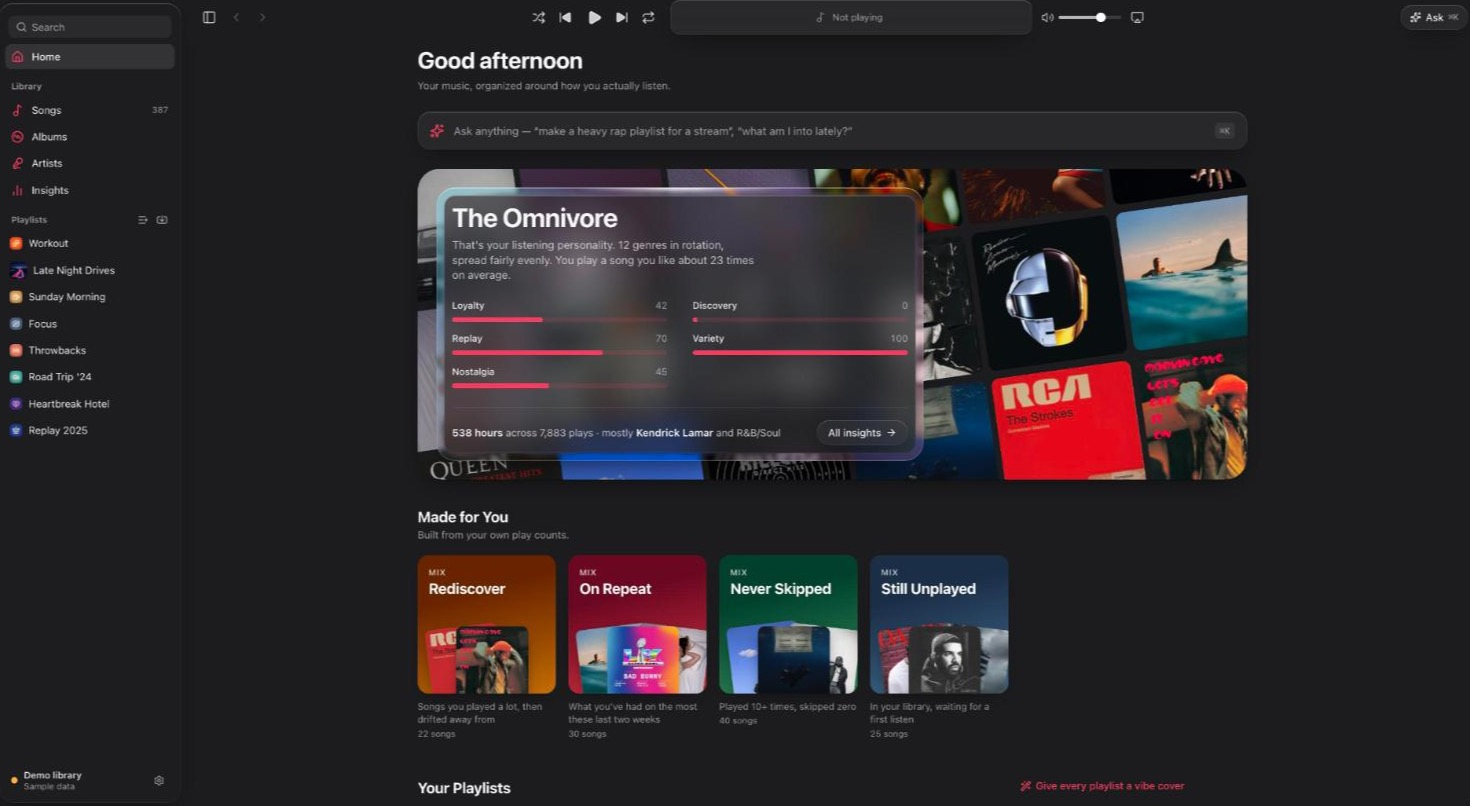
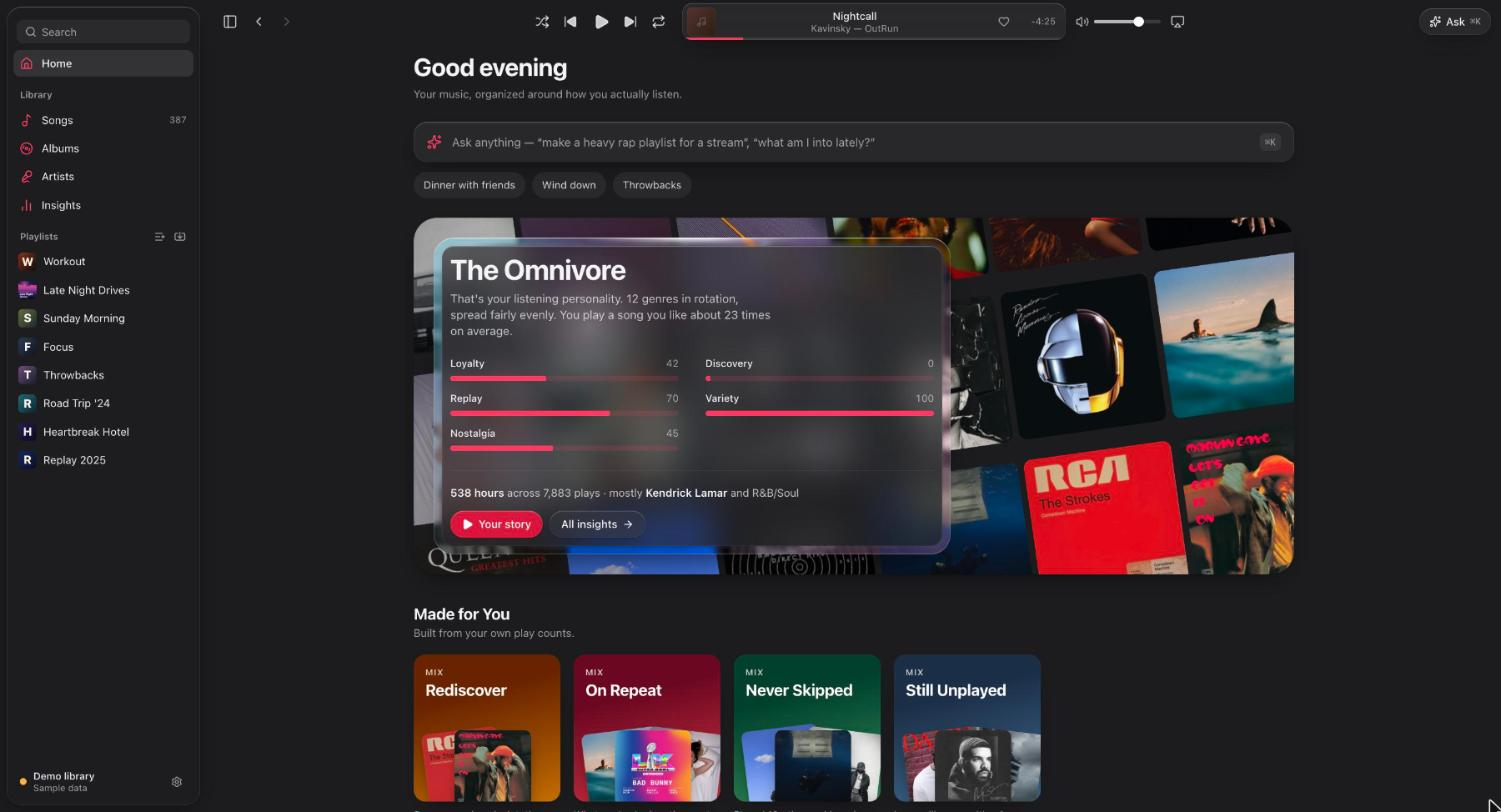
README: Now Playing, listening story, energy flow, cover styles; new screenshots

diff --git a/README.md b/README.md
@@ -5,25 +5,36 @@ songs from your library *and* all of Apple Music, give every playlist a cover th
 actually listen, and control playback from the menu bar.
 
 <p align="center">
-  <img src="assets/home.jpg" alt="Home: your listening personality, Made for You mixes and playlists" width="900">
+  <img src="assets/home.jpg" alt="Home: ideas for right now, your listening personality, Made for You mixes" width="900">
 </p>
 
 <table>
   <tr>
     <td width="40%"><img src="assets/assistant.jpg" alt="The assistant drafting a playlist from your library plus new Apple Music songs"></td>
-    <td width="40%"><img src="assets/playlist.jpg" alt="A playlist page tinted by its cover"></td>
+    <td width="40%"><img src="assets/playlist.jpg" alt="A playlist page with its energy flow, one-tap ideas and a Type cover"></td>
     <td width="20%"><img src="assets/menubar.png" alt="The menu bar popover: now playing, Ask, playlists"></td>
   </tr>
   <tr>
     <td>Ask for a playlist: your songs plus new ones</td>
-    <td>Every playlist, tinted by its cover</td>
+    <td>Every playlist's energy, song by song</td>
     <td>The menu bar, from any app</td>
+  </tr>
+  <tr>
+    <td width="40%"><img src="assets/now-playing.jpg" alt="Now Playing: big artwork over its colors, controls, more by the artist and songs like this"></td>
+    <td width="40%" colspan="2"><img src="assets/story.jpg" alt="Your listening story: a top songs card" width="260"></td>
+  </tr>
+  <tr>
+    <td>Now Playing, with songs like this from Apple Music</td>
+    <td colspan="2">Your listening story</td>
   </tr>
 </table>
 
 ## Download
 
 **[Get the latest version →](https://github.com/kxnerx/apple-music-toolbox-releases/releases)**
+
+**Newest test build: [0.1.1-test.2](https://github.com/kxnerx/apple-music-toolbox-releases/releases/tag/v0.1.1-test.2)**:
+Now Playing, your listening story, energy flow on playlists, cover styles and a new app icon.
 
 You need an **Apple Silicon Mac** (M1 or newer) and the Music app. An Apple Music subscription lets the assistant
 suggest new songs, and your own [OpenRouter key](https://openrouter.ai/settings/keys) (a few cents of credit goes a
@@ -52,10 +63,12 @@ long way) turns on the assistant, recommendations and AI covers.
 | **New music** | Playlists mix your library with new songs from Apple Music. New songs wait on the playlist: click **Add all in Music** and press **+** on each; they move into the playlist by themselves. |
 | **Your library** | Songs, albums and artists like the Music app, with love, ratings, *Get Info*, sorting, multi-select and drag-and-drop onto playlists. |
 | **Playlists** | Rename, add, remove (with Undo), export to CSV, text, M3U or JSON, and import from a file. |
-| **Vibe covers** | Every playlist gets a cover that matches its mood; AI art takes about 3 seconds. Drag a cover onto the playlist in Music to use it there. |
-| **Insights** | Your listening personality, top artists and songs, what you're into lately, forgotten favorites, songs you skip. |
+| **Vibe covers** | Every playlist gets a cover that matches its mood, in four instant styles (Type, Neon, Wave, Blend) or AI art in about 3 seconds. Drag a cover onto the playlist in Music to use it there. |
+| **Now Playing** | Click the artwork (or ⌘⇧F) for a full-window player: every control, AirPlay, more by the artist, and **Find songs like this** from all of Apple Music. |
+| **Energy flow** | Every playlist shows its energy song by song and its moods; hover to find a song, click to play from it. One-tap ideas sit right above the songs. |
+| **Insights** | Your listening personality, top artists and songs, what you're into lately, forgotten favorites, songs you skip, and **Your listening story**: full-screen cards you can save as images. |
 | **Menu bar** | Now playing, AirPlay, Ask and your playlists from any app. **⌃⌥Space** opens it with Ask ready. |
-| **Keyboard** | Space plays/pauses, ⌘→ / ⌘← skip, ⌘↑ / ⌘↓ volume, ⌘1–5 jump between sections, ⌘F search. |
+| **Keyboard** | Space plays/pauses, ⌘→ / ⌘← skip, ⌘↑ / ⌘↓ volume, ⌘1–5 jump between sections, ⌘F search, ⌘⇧F Now Playing. |
 
 ## Questions
 
